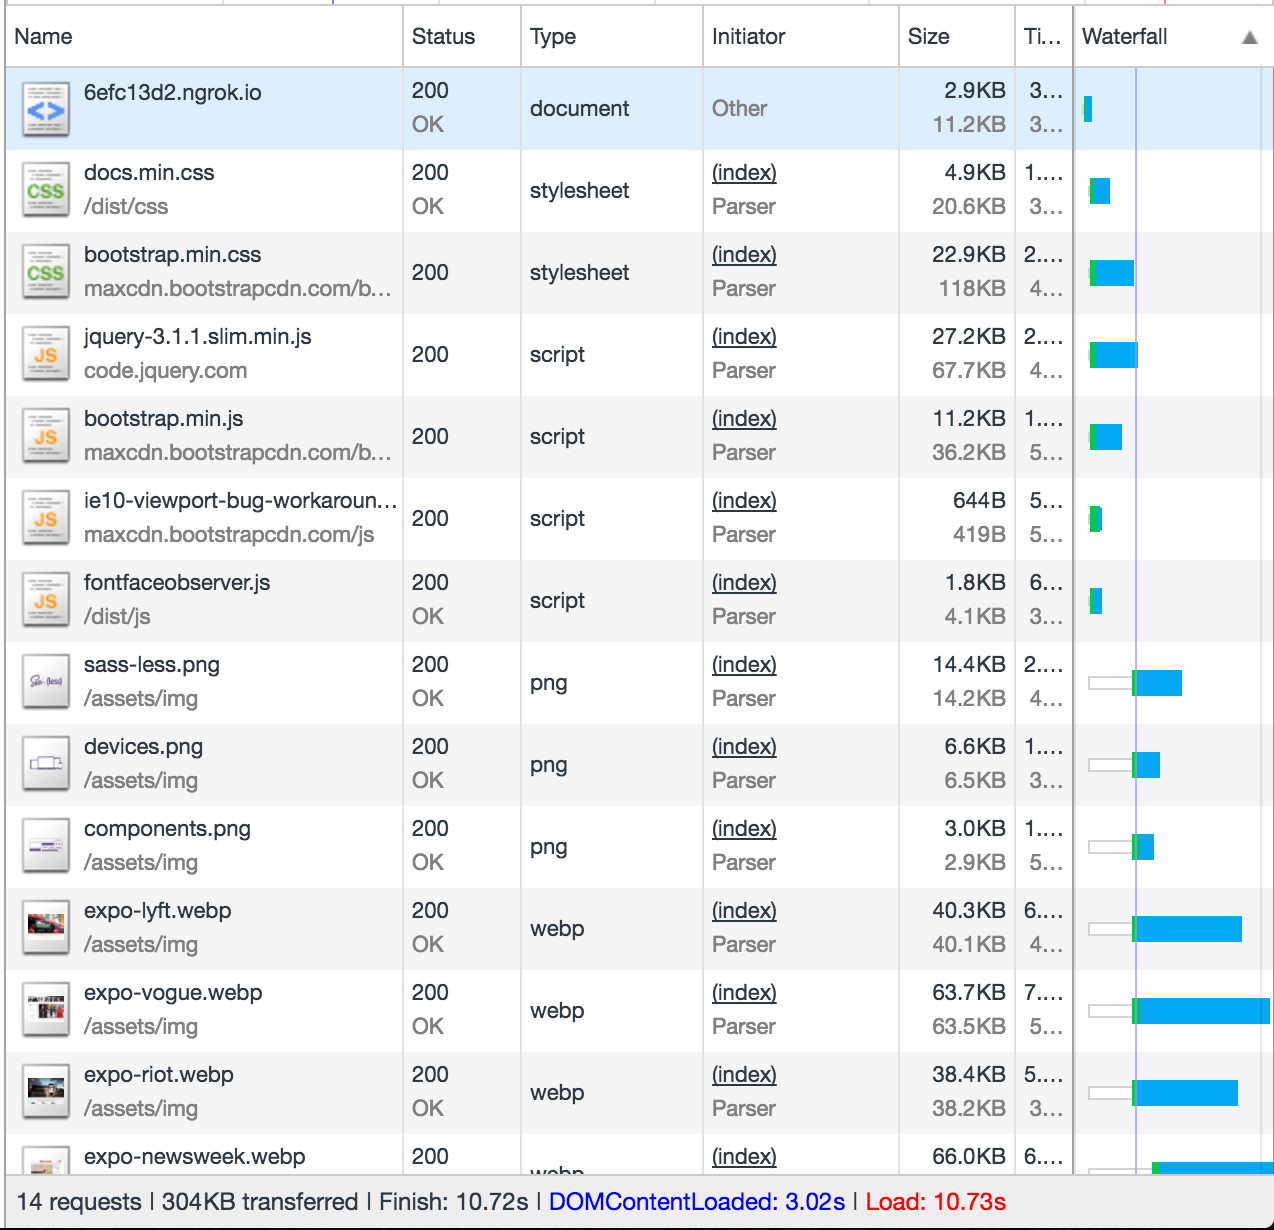
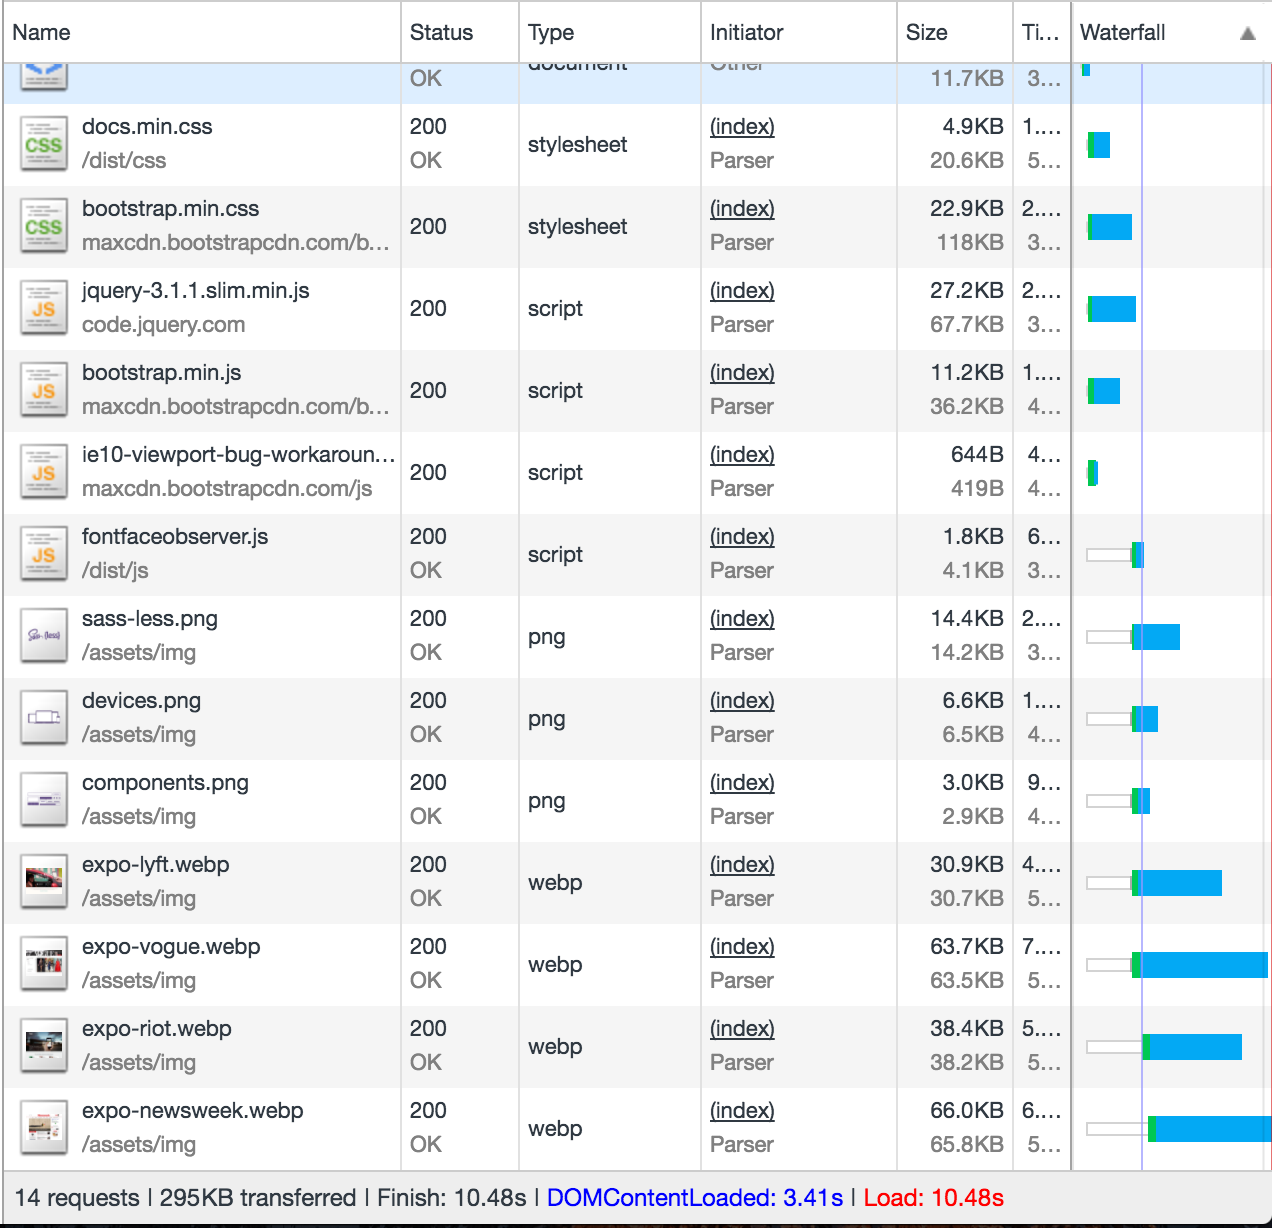
Better optimized images

Changed region(s): [[0.0, 0.0, 1.0, 1.0]]

diff --git a/src/index.html b/src/index.html
@@ -59,17 +59,29 @@
         <hr class="half-rule">
         <div class="row">
             <div class="col-sm-4">
-                <img alt="Sass and Less support" class="img-responsive" src="/assets/img/sass-less.png">
+              <picture>
+                <source type="images/webp" srcset="/assets/img/sass-less.webp">
+                <source srcset="/assets/img/sass-less.png">
+                <img class="img-responsive" alt="Devices" src="/assets/img/sass-less.png">
+              </picture>
                 <h3>Preprocessors</h3>
                 <p>Bootstrap ships with vanilla CSS, but its source code utilizes the two most popular CSS preprocessors, <a href="../css/#less">Less</a> and <a href="../css/#sass">Sass</a>. Quickly get started with precompiled CSS or build on the source.</p>
             </div>
             <div class="col-sm-4">
-                <img alt="Responsive across devices" class="img-responsive" src="/assets/img/devices.png">
+              <picture>
+                <source type="images/webp" srcset="/assets/img/devices.webp">
+                <source srcset="/assets/img/devices.png">
+                <img class="img-responsive" alt="Devices" src="/assets/img/devices.png">
+              </picture>
                 <h3>One framework, every device.</h3>
                 <p>Bootstrap easily and efficiently scales your websites and applications with a single code base, from phones to tablets to desktops with CSS media queries.</p>
             </div>
             <div class="col-sm-4">
-                <img alt="Components" class="img-responsive" src="/assets/img/components.png">
+              <picture>
+                <source type="images/webp" srcset="/assets/img/components.webp">
+                <source srcset="/assets/img/components.png">
+                <img class="img-responsive" alt="Devices" src="/assets/img/components.png">
+              </picture>
                 <h3>Full of features</h3>
                 <p>With Bootstrap, you get extensive and beautiful documentation for common HTML elements, dozens of custom HTML and CSS components, and awesome jQuery plugins.</p>
             </div>
@@ -87,39 +99,33 @@
             <div class="col-xs-6 col-sm-3">
                 <a href="http://expo.getbootstrap.com/2014/10/29/lyft/" target="_blank" title="Lyft">
                   <picture>
-                    <source type="image/webp" srcset="/assets/img/expo-lyft.webp" media="(min-width: 640px)">
-                    <source type="image/webp" srcset="/assets/img/expo-lyft-m.webp" media="(min-width: 320px)">
+                    <source type="image/webp" srcset="/assets/img/expo-lyft-m.webp" media="(min-width: 640px)">
                     <source type="images/webp" srcset="/assets/img/expo-lyft-s.webp">
-                    <source srcset="/assets/img/expo-lyft.jpg" media="(min-width: 640px)">
-                    <source srcset="/assets/img/expo-lyft-m.jpg" media="(min-width: 320)">
+                    <source srcset="/assets/img/expo-lyft-m.jpg" media="(min-width: 640px)">
                     <source srcset="/assets/img/expo-lyft-s.jpg">
-                    <img class="img-responsive" alt="Lyft" src="/assets/img/expo-lyft.jpg">
+                    <img class="img-responsive" alt="Lyft" src="/assets/img/expo-lyft-m.jpg">
                   </picture>
                 </a>
             </div>
             <div class="col-xs-6 col-sm-3">
                 <a href="http://expo.getbootstrap.com/2014/09/30/vogue/" target="_blank" title="Vogue">
                   <picture>
-                    <source type="image/webp" srcset="/assets/img/expo-vogue.webp" media="(min-width: 640px)">
-                    <source type="image/webp" srcset="/assets/img/expo-vogue-m.webp" media="(min-width: 320px)">
+                    <source type="image/webp" srcset="/assets/img/expo-vogue-m.webp" media="(min-width: 640px)">
                     <source type="images/webp" srcset="/assets/img/expo-vogue-s.webp">
-                    <source srcset="/assets/img/expo-vogue.jpg" media="(min-width: 640px)">
-                    <source srcset="/assets/img/expo-vogue-m.jpg" media="(min-width: 320)">
+                    <source srcset="/assets/img/expo-vogue-m.jpg" media="(min-width: 640px)">
                     <source srcset="/assets/img/expo-vogue-s.jpg">
-                    <img class="img-responsive" alt="Vogue" src="/assets/img/expo-vogue.jpg">
+                    <img class="img-responsive" alt="Vogue" src="/assets/img/expo-vogue-m.jpg">
                   </picture>
                 </a>
             </div>
             <div class="col-xs-6 col-sm-3">
                 <a href="http://expo.getbootstrap.com/2014/03/13/riot-design/" target="_blank" title="Riot Design">
                   <picture>
-                    <source type="image/webp" srcset="/assets/img/expo-riot.webp" media="(min-width: 640px)">
-                    <source type="image/webp" srcset="/assets/img/expo-riot-m.webp" media="(min-width: 320px)">
+                    <source type="image/webp" srcset="/assets/img/expo-riot-m.webp" media="(min-width: 640px)">
                     <source type="images/webp" srcset="/assets/img/expo-riot-s.webp">
-                    <source srcset="/assets/img/expo-riot.jpg" media="(min-width: 640px)">
-                    <source srcset="/assets/img/expo-riot-m.jpg" media="(min-width: 320)">
+                    <source srcset="/assets/img/expo-riot-m.jpg" media="(min-width: 640px)">
                     <source srcset="/assets/img/expo-riot-s.jpg">
-                    <img class="img-responsive" alt="Riot" src="/assets/img/expo-riot.jpg">
+                    <img class="img-responsive" alt="Riot" src="/assets/img/expo-riot-m.jpg">
                   </picture>
                 </a>
             </div>

diff --git a/gulpfile.js b/gulpfile.js
@@ -1,7 +1,6 @@
 var gulp = require('gulp');
-var concatCSS = require('gulp-concat-css');
+// var concatCSS = require('gulp-concat-css');
 var cleanCSS = require('gulp-clean-css');
-var sourcemaps = require('gulp-sourcemaps');
 var rename = require('gulp-rename');
 
 gulp.task('styles', function () {

diff --git a/audit.md b/audit.md
@@ -43,6 +43,16 @@ Used CDN's instead of the local files for some of the JS and CSS
 Minify the docs.css with gulp-clean-css
 - **Requests:** 14
 - **Transfered:** 304KB
-- **DOMContentLoaded:** 3.02s
-- **Load:** 10.73s
+- **DOMContentLoaded:** 3.41s
+- **Load:** 10.48s
 ![Gzip Compression Audit](https://github.com/camille500/performance-matters/blob/master/screenshots/6.%20MiniCss.png)
+
+## Better Image Optimization
+
+Better image optimization
+- **Requests:** 14
+- **Transfered:** 223KB
+- **DOMContentLoaded:** 3.02s
+- **Load:** 8.15s
+
+![Gzip Compression Audit](https://github.com/camille500/performance-matters/blob/master/screenshots/7.%20BetterImage.png)
